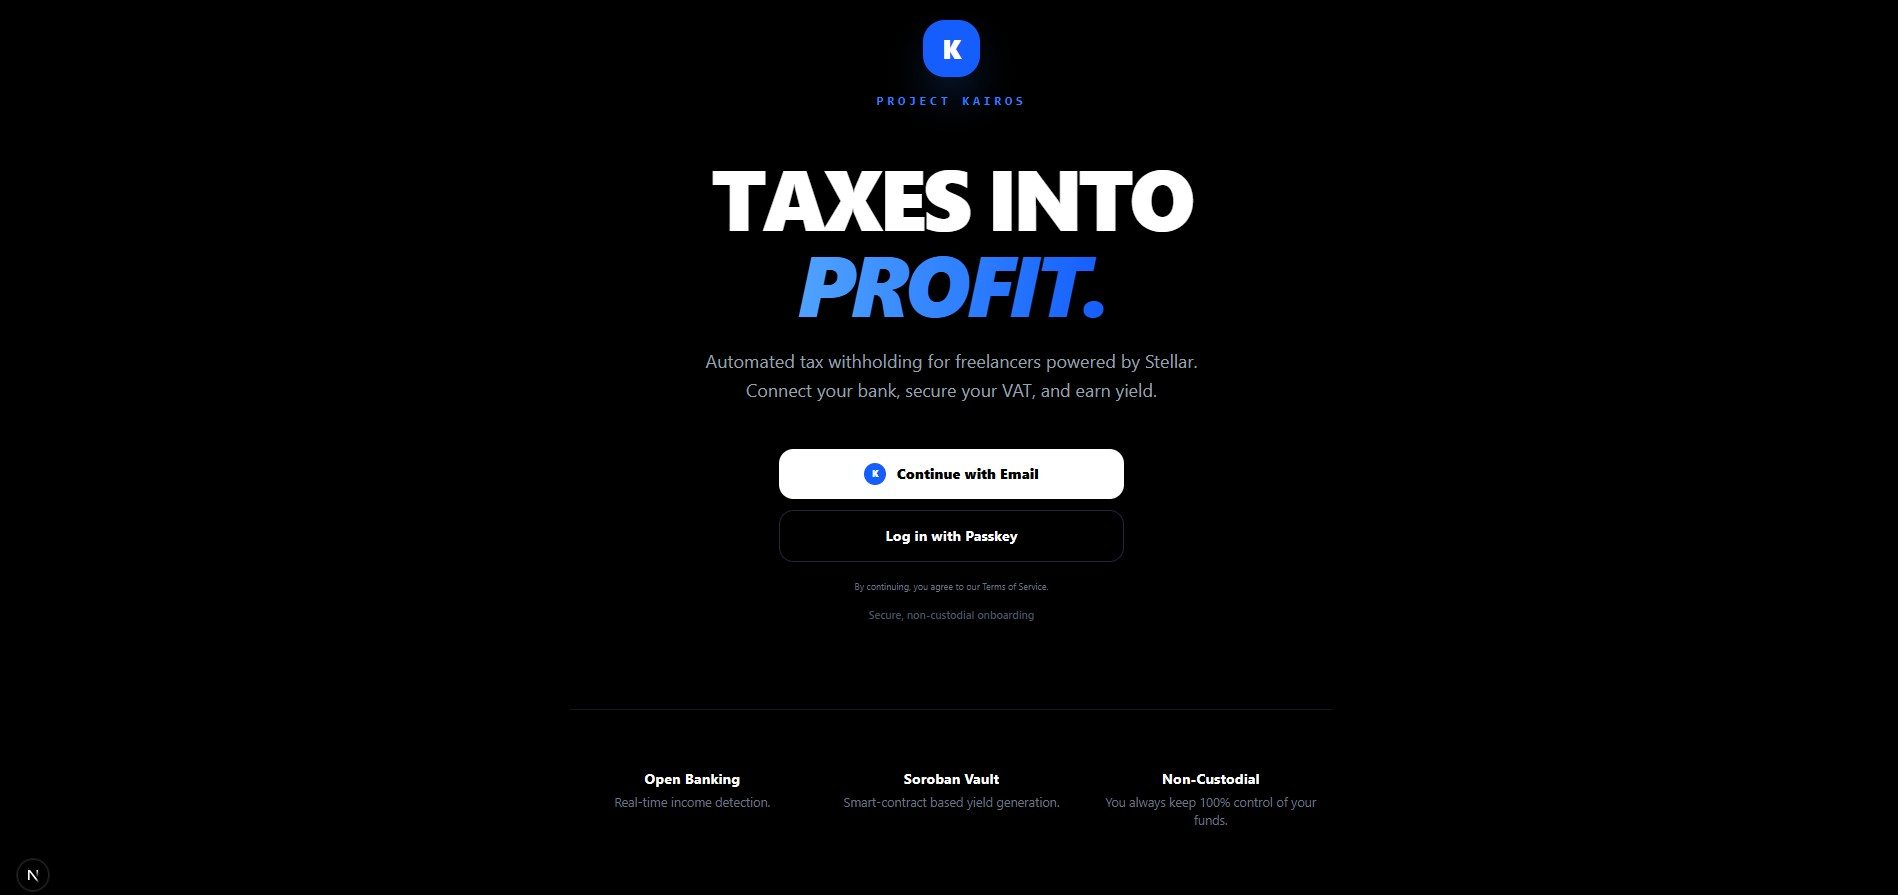
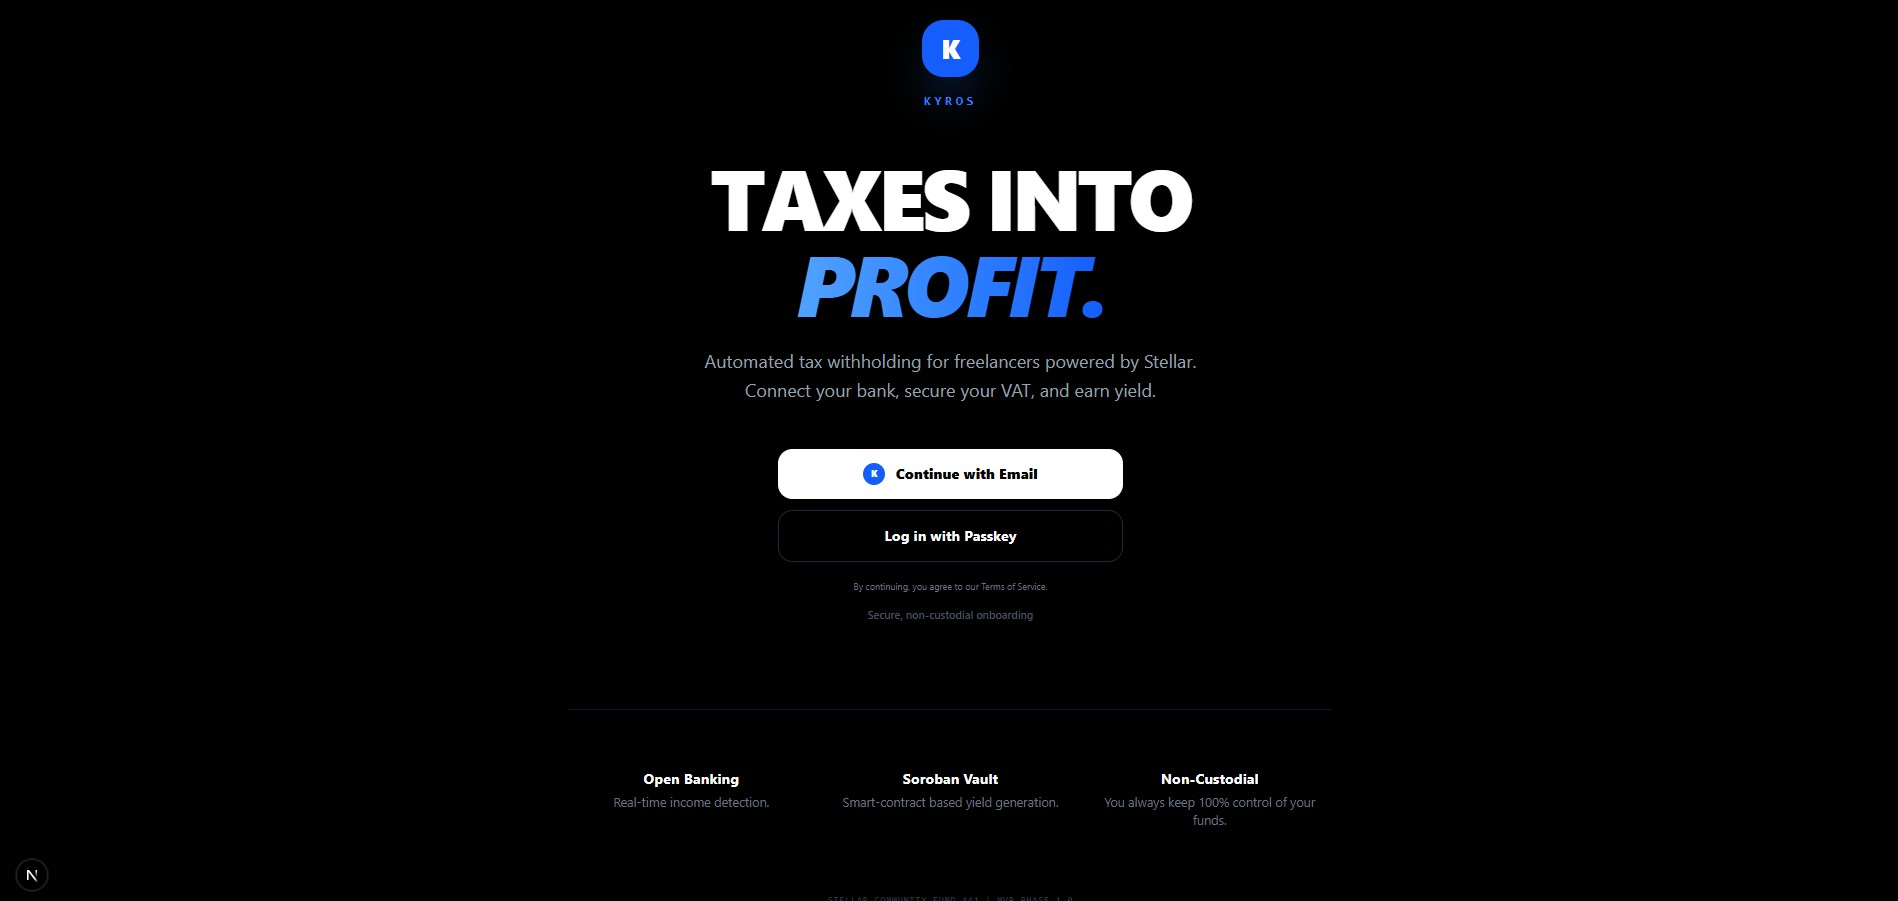
SCF readme update

diff --git a/apps/web/src/app/page.tsx b/apps/web/src/app/page.tsx
@@ -16,7 +16,7 @@ export default function Home() {
             K
           </div>
           <h2 className="text-blue-500 font-mono text-sm font-bold uppercase tracking-[0.3em]">
-            Project Kairos
+            Kyros
           </h2>
         </div>
 

diff --git a/README.md b/README.md
@@ -1,4 +1,4 @@
-# Kyros (Project Kairos)
+# Kyros
 
 Automated tax withholding for freelancers and SMEs, powered by Stellar.
 Connect your bank, reserve VAT/income tax in a non-custodial Soroban vault,
@@ -7,7 +7,7 @@ and put idle tax balances to work.
 This repository is prepared for our application to the Stellar Community Fund
 (SCF) Build track.
 
-![Kyros landing page: onboarding and value proposition](resources/LandingPage.jpg)
+![Kyros landing page: onboarding](resources/LandingPage.jpg)
 
 ## Problem
 Freelancers and small businesses often under-save for taxes. When they do set
